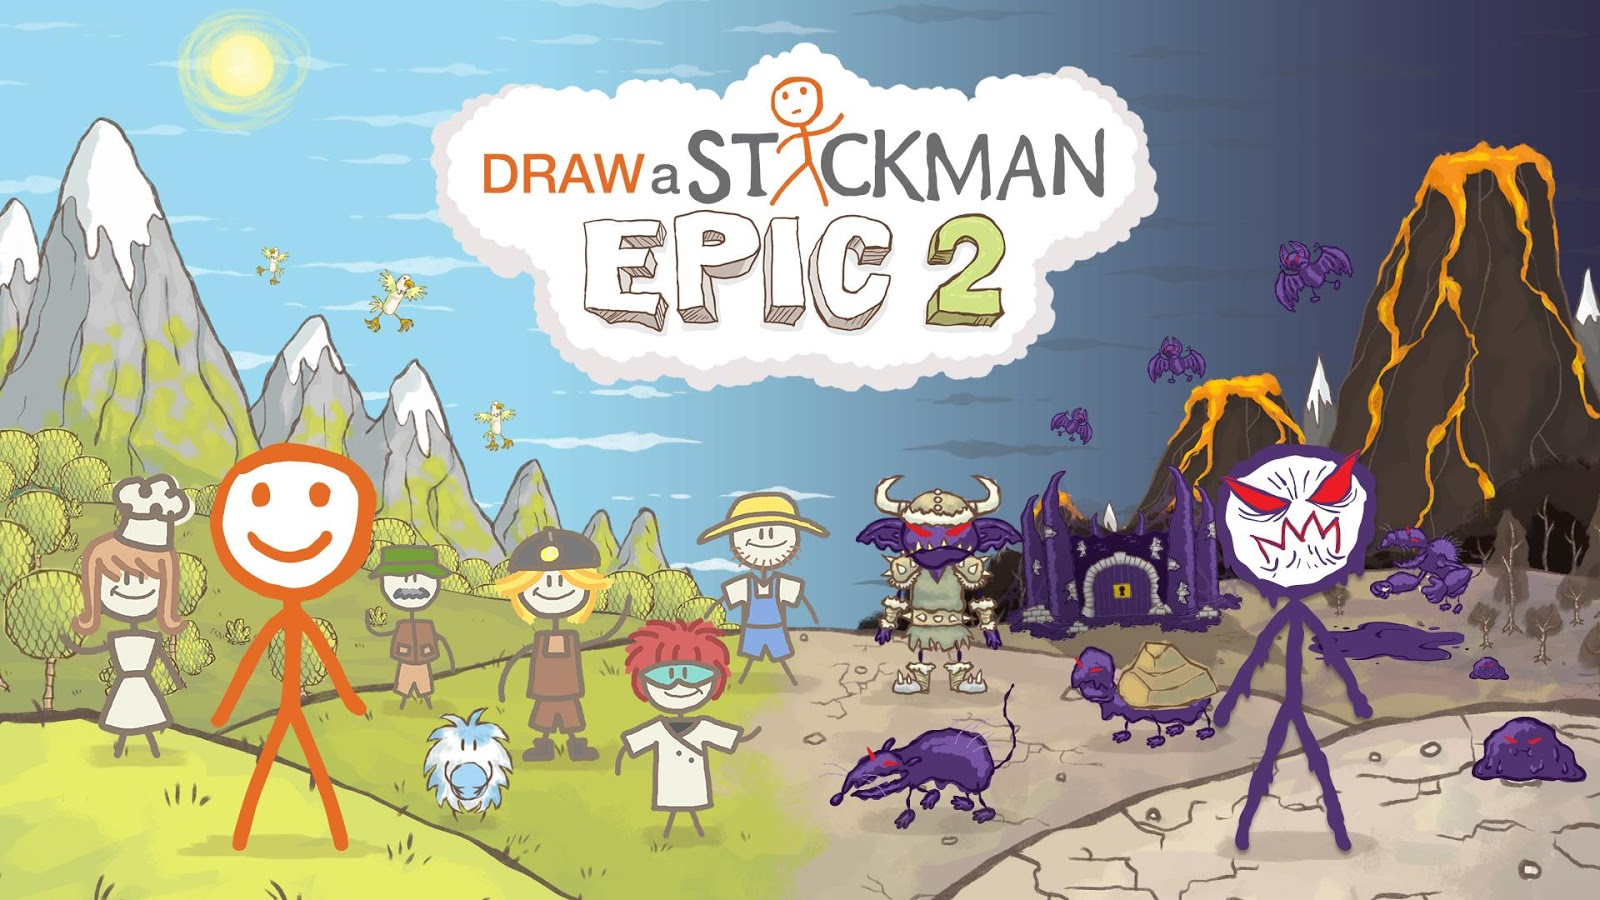
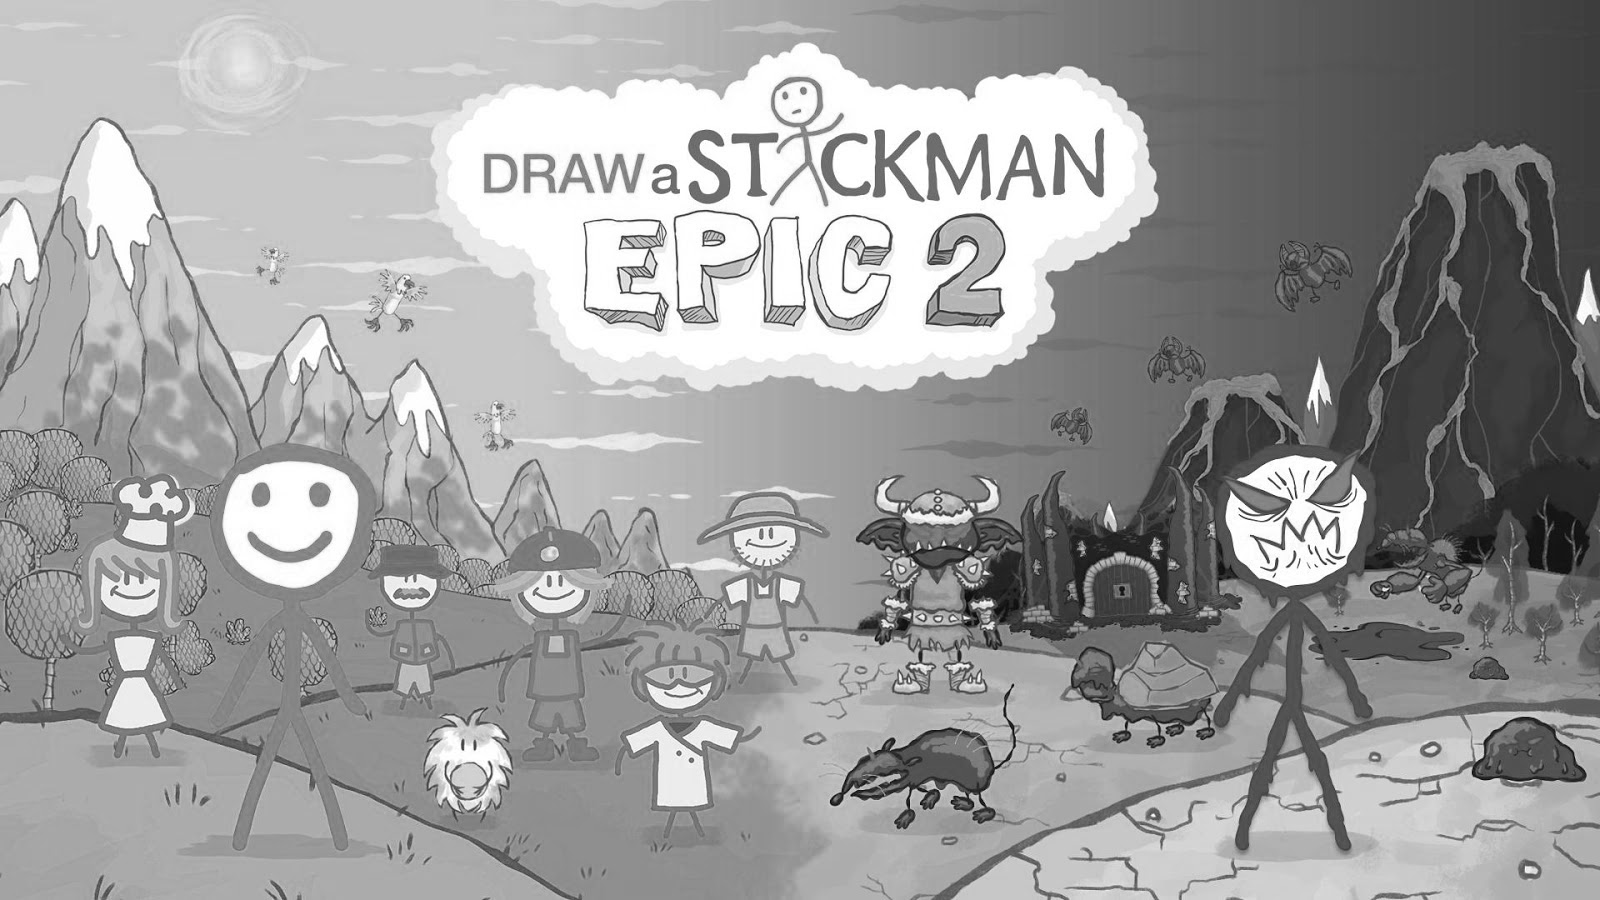
Cleaned up pages and made images black and grey for readability

diff --git a/bootstrappost.html b/bootstrappost.html
@@ -91,9 +91,8 @@
 
                     <p>It has given me the ability to easily create a professional looking responsive website that allows my website to fit properly on any device and give visitors the freedom to view it as they see fit.</p>
 
-                    <p>If you would like to learn more about Bootstrap and how to use it to create your own website feel free to visit the link below:</p>
+                    <p>If you would like to learn more about Bootstrap and how to use it to create your own website feel free to visit <a href="http://getbootstrap.com/">GetBootstrap.com</a>.</p>
 
-                    <p><a href="http://getbootstrap.com/">GetBootstrap.com</a></p>
                 </div>
             </div>
         </div>

diff --git a/githubpagespost.html b/githubpagespost.html
@@ -65,7 +65,7 @@
 
     <!-- Page Header -->
     <!-- Set your background image for this header on the line below. -->
-    <header class="intro-header" style="background-image: url('img/home-bg.jpg')">
+    <header class="intro-header" style="background-image: url('img/github-bg.jpg')">
         <div class="container">
             <div class="row">
                 <div class="col-lg-8 col-lg-offset-2 col-md-10 col-md-offset-1">
